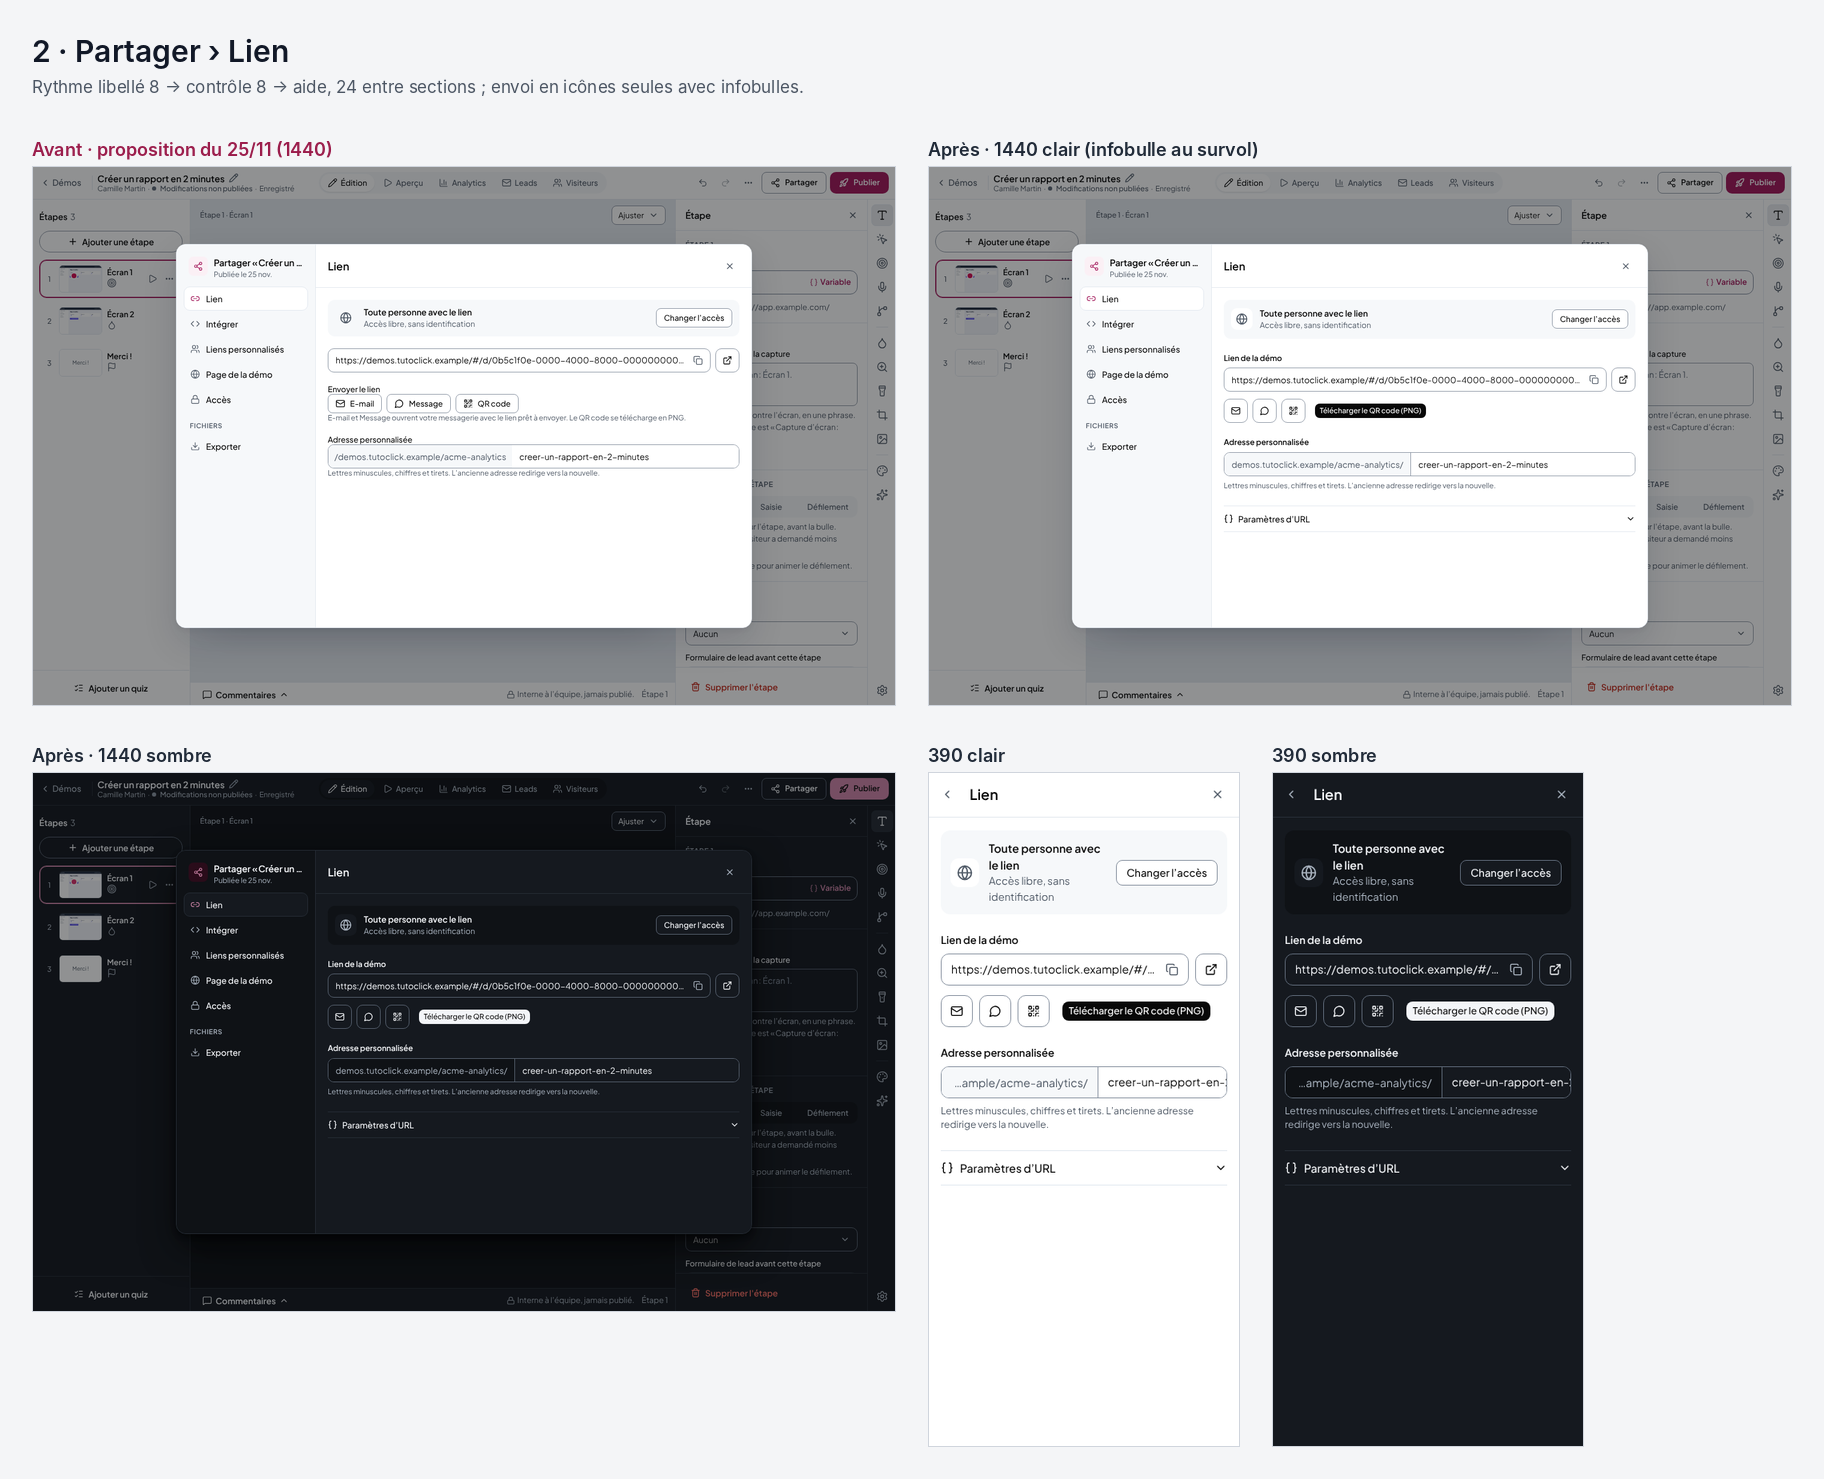
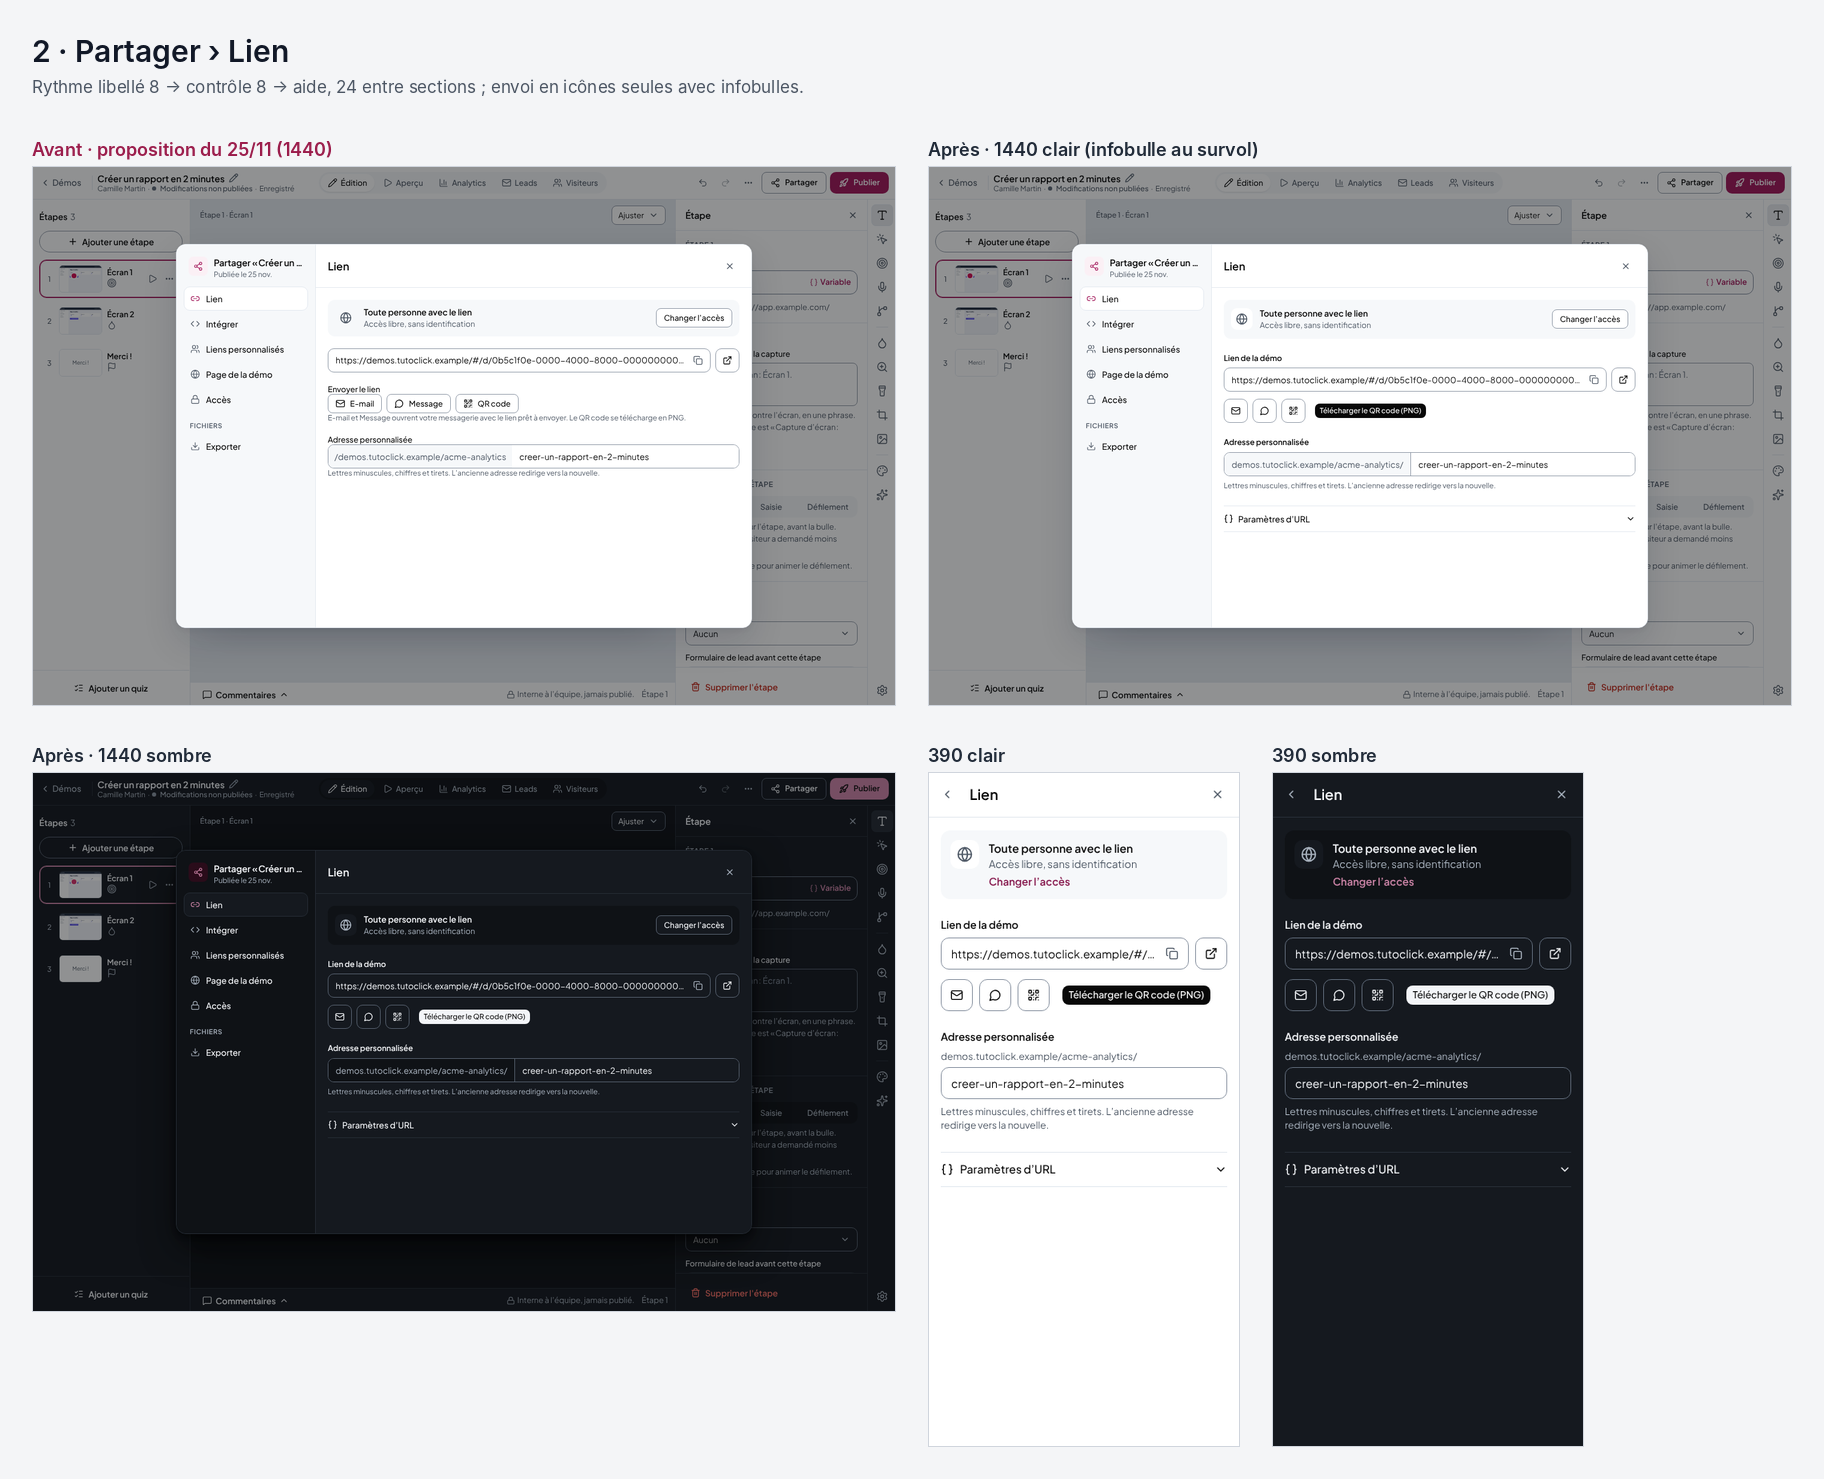
2-lien à 390 : préfixe au-dessus du champ, slug pleine largeur, « Changer l'accès » en lien
Claude-Session: https://claude.ai/code/session_016yn81XNDaqi4emq7ho6CNv

Changed region(s): [[0.5, 0.5598, 0.875, 0.7776], [0.7812, 0.5598, 0.8125, 0.5909], [0.5938, 0.5598, 0.625, 0.5909]]

diff --git a/docs/ux/propositions/retours-4-planches/note.md b/docs/ux/propositions/retours-4-planches/note.md
@@ -54,6 +54,10 @@ Le modèle est celui d'un gestionnaire de mots de passe.
   - le préfixe est tronqué **par la gauche** (« …ample/acme-analytics/ »), pour garder la fin utile ;
   - il prend 55 % de la largeur au plus ;
   - les deux bouts sont arrondis.
+- **Sous 600 px** :
+  - le préfixe passe **au-dessus** du champ, en une ligne de texte discret (12 px, gris, 4 px au-dessus du champ) ;
+  - le slug prend toute la largeur, dans un champ de 40 px ;
+  - dans le bandeau d'accès, « Changer l'accès » devient un **lien** sous l'aide, à la place du bouton, et le bandeau tient en 3 lignes au plus.
 
 ## 3. Assistant IA
 
